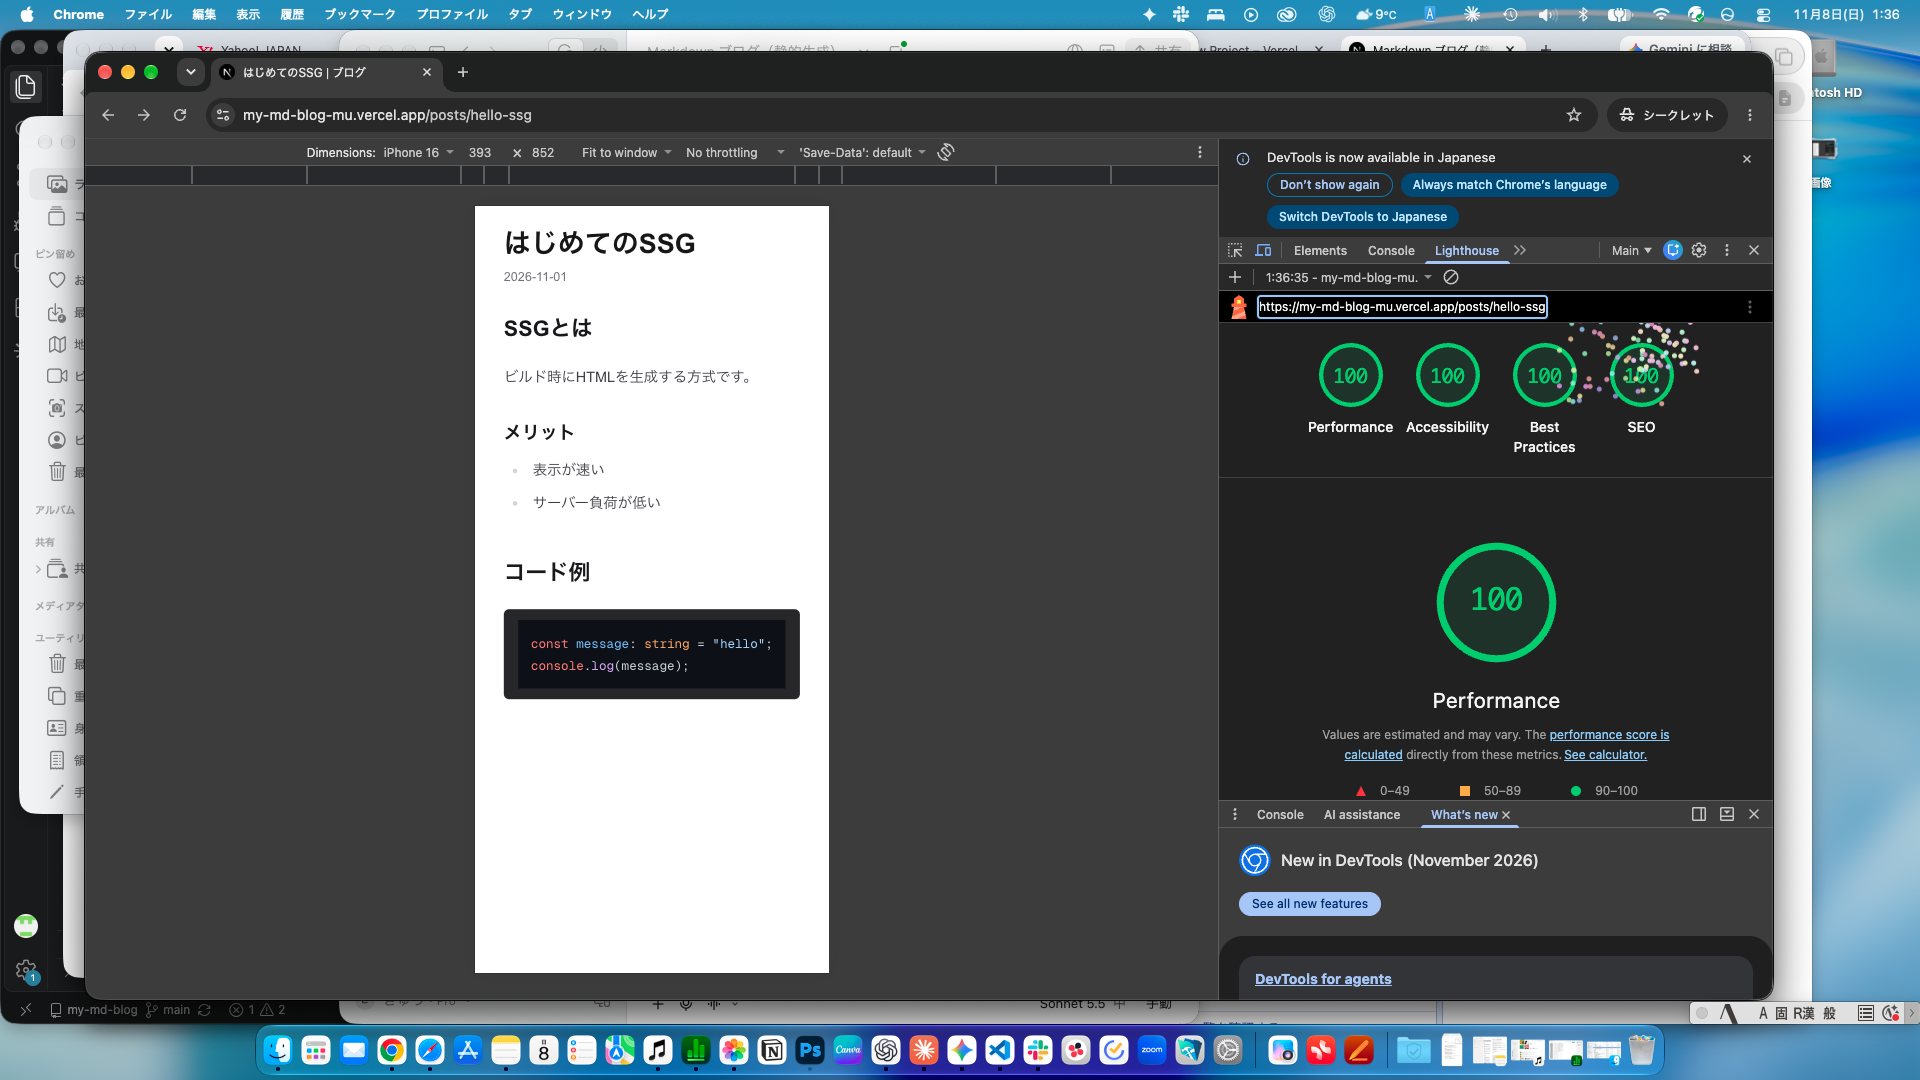
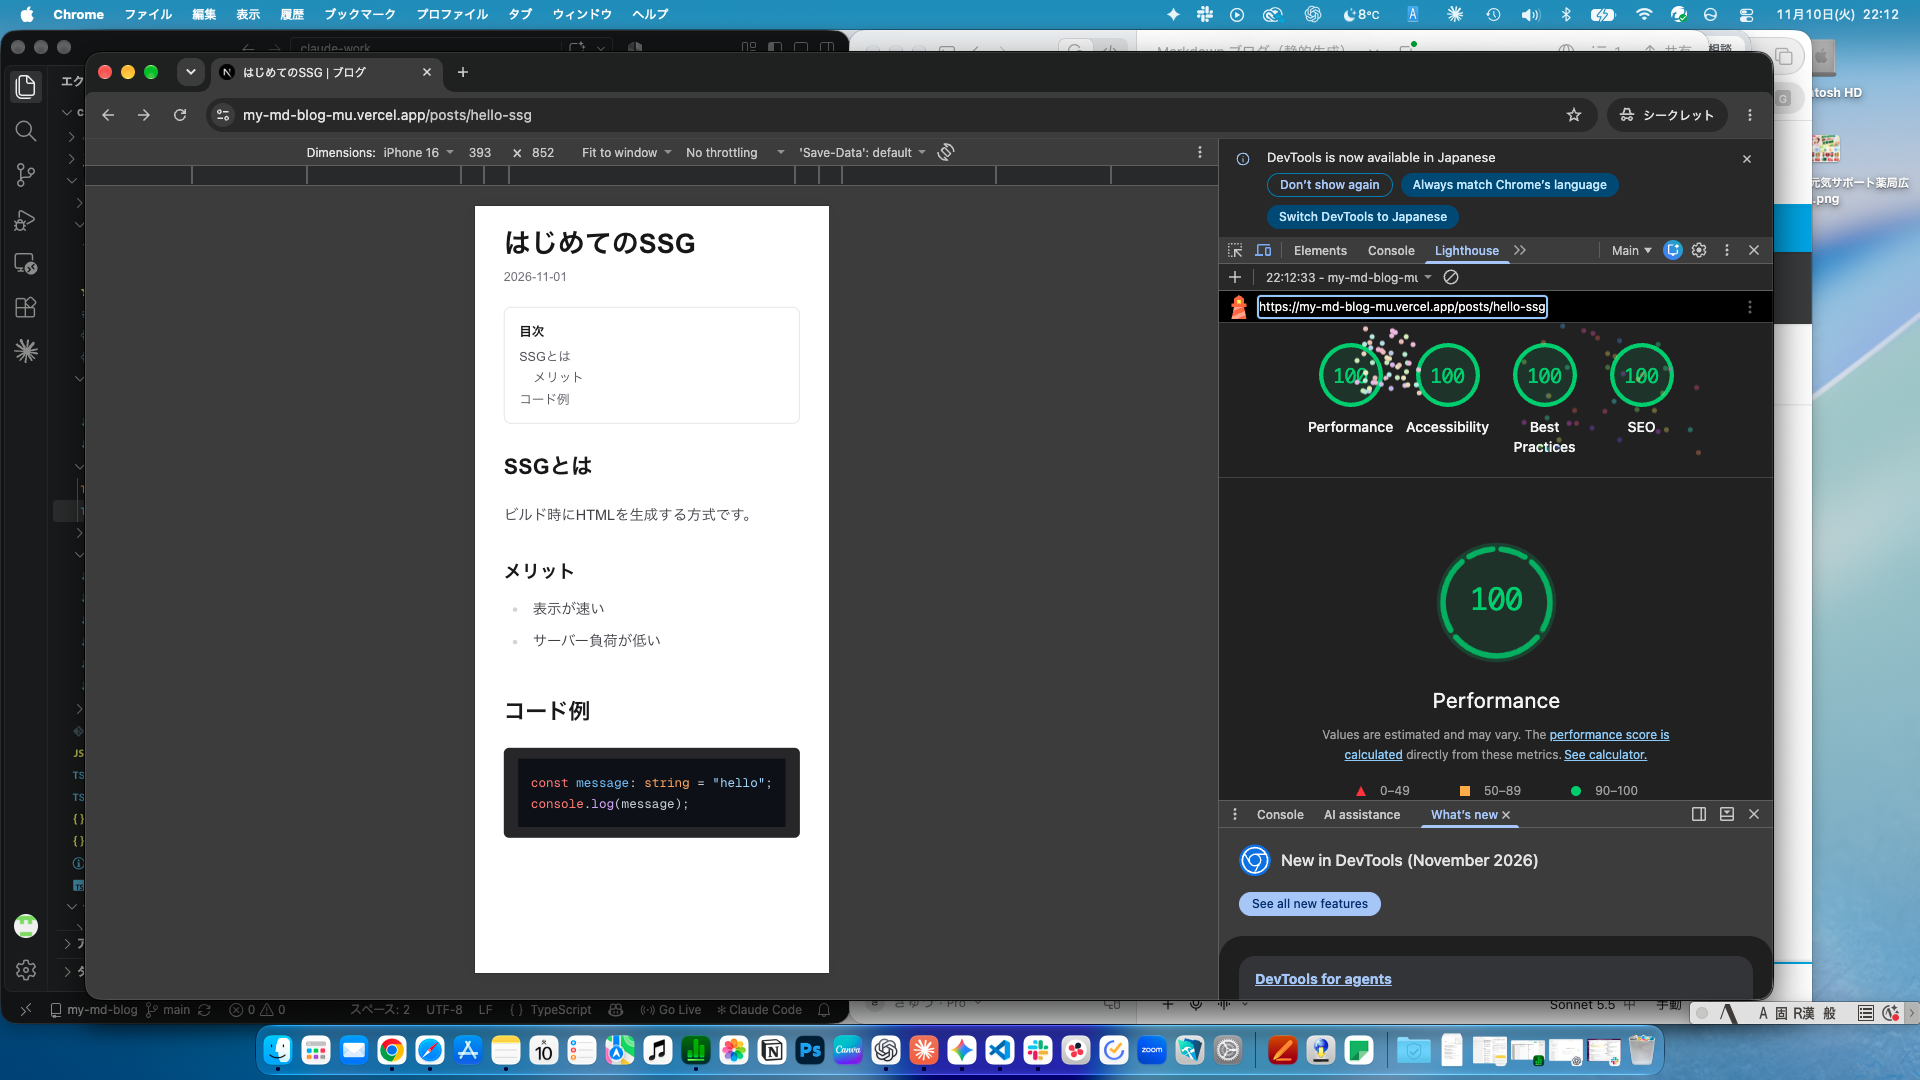
Lighthouse を再計測し、スクリーンショットとスコアを更新

diff --git a/docs/learning-note.md b/docs/learning-note.md
@@ -339,10 +339,11 @@ Route (app)
 ### 9-4. デプロイと Lighthouse
 - デプロイ先：Vercel（GitHub の `main` ブランチを連携）。本番 URL：https://my-md-blog-mu.vercel.app
 - 計測条件：Chrome のシークレットウィンドウ、モバイル（iPhone 16 設定）、本番 URL
+- 2026-11-10 に、タグ修正・目次・メタタグ追加後の本番 URL で再計測した（初回は一覧 99 → 100 に。計測ごとのぶれの範囲）
 
 | ページ | Performance | Accessibility | Best Practices | SEO |
 |---|---|---|---|---|
-| 一覧（`/`） | 99 | 100 | 100 | 100 |
+| 一覧（`/`） | 100 | 100 | 100 | 100 |
 | 記事（`/posts/hello-ssg`） | 100 | 100 | 100 | 100 |
 
 ![Lighthouse 一覧ページ](images/lighthouse-top.png)
